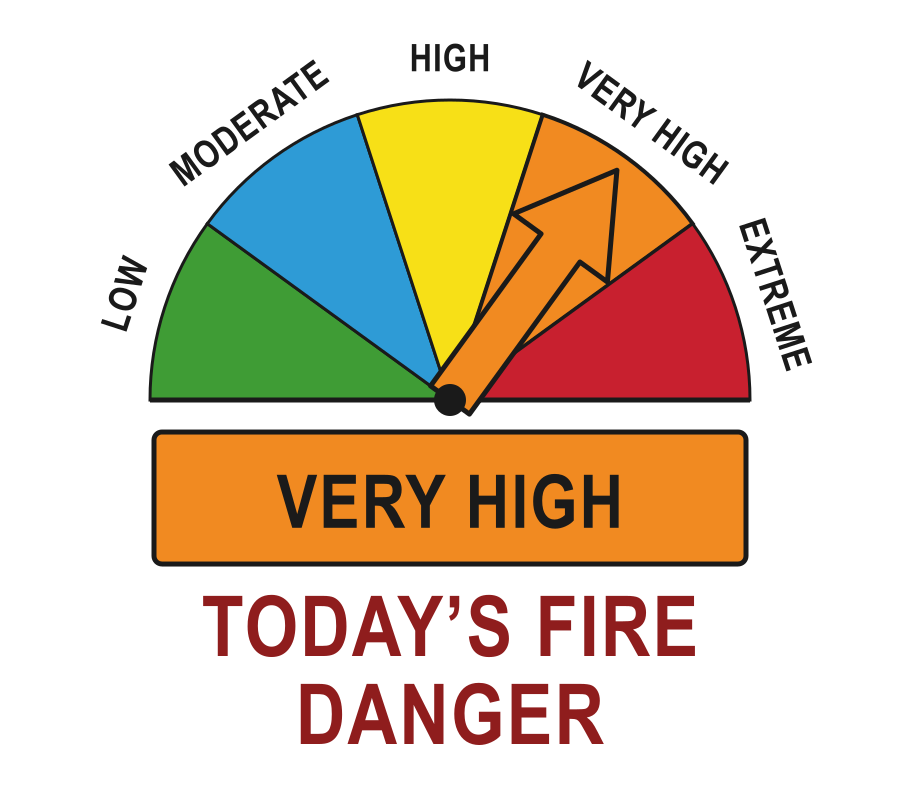
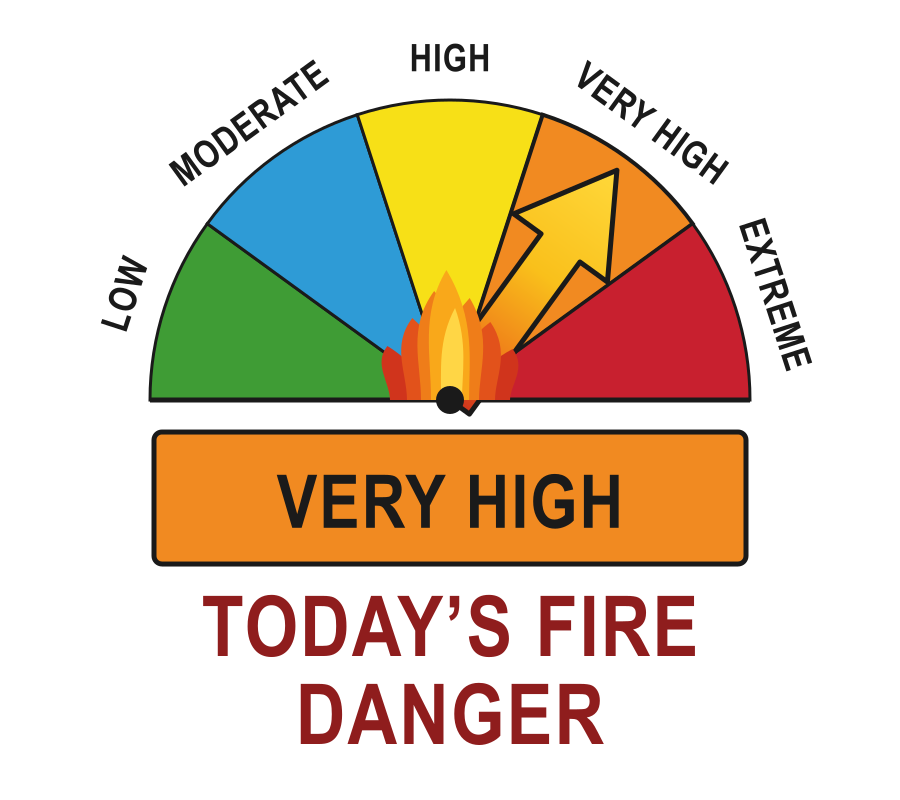
The pointer is a flame-lit arrow again, and stops changing color
Two things from the roadside sign that the flat pointer had dropped.

It runs yellow at the tip through orange to ember at the base, and fire
licks up out of the middle of the gauge underneath it. The fire is drawn
outside the pointer's rotation, so it rises whichever way the arrow is
turned -- fire does not lean because the needle does -- and it is kept low
and close in, the way it is on the sign, rather than climbing the shaft.

The arrow is the same on all five. Coloring it by level said the level
twice and made the sign look like five unrelated drawings; it is one
pointer that moves, and the wedge it lands on is what says the level.

Changed region(s): [[0.4044, 0.3438, 0.5911, 0.5312], [0.56, 0.2188, 0.6844, 0.4062]]

diff --git a/scripts/fire-danger-signs.py b/scripts/fire-danger-signs.py
@@ -76,6 +76,44 @@ def wedge(i):
     return f"M {CX:.1f} {CY:.1f} L {x0:.1f} {y0:.1f} A {R_ARC} {R_ARC} 0 0 1 {x1:.1f} {y1:.1f} Z"
 
 
+def flames():
+    """Fire licking up out of the middle of the gauge.
+
+    Drawn outside the pointer's rotation so it always rises, whichever way the
+    pointer is turned -- fire does not lean because the needle does.
+
+    Each lick is two curves meeting at a point, with a lean that carries the
+    tip off to one side. Symmetrical ones read as a leaf; the lean is what
+    makes them read as flame.
+    """
+    #  x, half width, height, lean at the tip, color
+    licks = [
+        (-62, 20, 104, -30, "#d0341c"),
+        (62, 20, 98, 30, "#d0341c"),
+        (-34, 24, 158, -22, "#e2521b"),
+        (36, 24, 150, 24, "#e2521b"),
+        (-12, 26, 210, -12, "#ef7d19"),
+        (14, 24, 196, 16, "#ef7d19"),
+        (0, 24, 250, -6, "#f9a81a"),
+        (2, 13, 176, 6, "#ffd645"),
+    ]
+    # Kept low and close in. On the roadside sign the fire sits at the foot of
+    # the arrow; any taller and it hides the thing it is burning under.
+    out = []
+    for x0, hw, h, lean, col in licks:
+        x0, hw, h, lean = x0 * 0.72, hw * 0.78, h * 0.52, lean * 0.6
+        x = CX + x0
+        tip_x, tip_y = x + lean, CY - h
+        out.append(
+            f'        <path d="M {x - hw:.0f} {CY} '
+            f'C {x - hw} {CY - h * 0.34:.0f} {x - hw * 1.5 + lean * 0.5:.0f} {CY - h * 0.66:.0f} '
+            f'{tip_x} {tip_y:.0f} '
+            f'C {x + hw * 1.5 + lean * 0.5:.0f} {CY - h * 0.62:.0f} {x + hw:.0f} {CY - h * 0.3:.0f} '
+            f'{x + hw:.0f} {CY} Z" fill="{col}" />'
+        )
+    return "\n".join(out)
+
+
 def sign(slug, label, color, ink, index, theme, suffix):
     line, label_ink, title_ink = theme["line"], theme["label"], theme["title"]
     edge, edge_w = theme["title_edge"], theme["title_edge_w"]
@@ -113,7 +151,18 @@ def sign(slug, label, color, ink, index, theme, suffix):
     <line x1="{CX - R_ARC}" y1="{CY}" x2="{CX + R_ARC}" y2="{CY}" stroke="{line}" stroke-width="5" />
 {chr(10).join(names)}
 
-    <!-- The pointer -->
+    <!-- The pointer. The same yellow-to-ember on every sign: it is one object
+         that moves, not five that change color, and the wedge it lands on is
+         what says the level. Fire comes up out of the middle underneath it. -->
+    <defs>
+        <linearGradient id="arrow-{slug}{suffix}" gradientUnits="userSpaceOnUse"
+                        x1="{CX}" y1="{CY - R_ARC + 16}" x2="{CX}" y2="{CY}">
+            <stop offset="0" stop-color="#ffd83a" />
+            <stop offset="0.45" stop-color="#f9c01b" />
+            <stop offset="0.78" stop-color="#ef7d19" />
+            <stop offset="1" stop-color="#d0341c" />
+        </linearGradient>
+    </defs>
     <g transform="rotate({turn:.1f} {CX} {CY})">
         <path d="M {CX} {CY - R_ARC + 16}
                  L {CX + 58} {CY - R_ARC + 112}
@@ -122,9 +171,10 @@ def sign(slug, label, color, ink, index, theme, suffix):
                  L {CX - 24} {CY}
                  L {CX - 24} {CY - R_ARC + 112}
                  L {CX - 58} {CY - R_ARC + 112} Z"
-              fill="{color}" stroke="{line}" stroke-width="5" stroke-linejoin="round" />
+              fill="url(#arrow-{slug}{suffix})" stroke="{line}" stroke-width="5" stroke-linejoin="round" />
     </g>
-    <circle cx="{CX}" cy="{CY}" r="16" fill="{line}" />
+{flames()}
+    <circle cx="{CX}" cy="{CY}" r="14" fill="{line}" />
 
     <!-- The word, which is what somebody actually reads -->
     <rect x="{CX - 296}" y="{BANNER_TOP}" width="592" height="132" rx="8"
